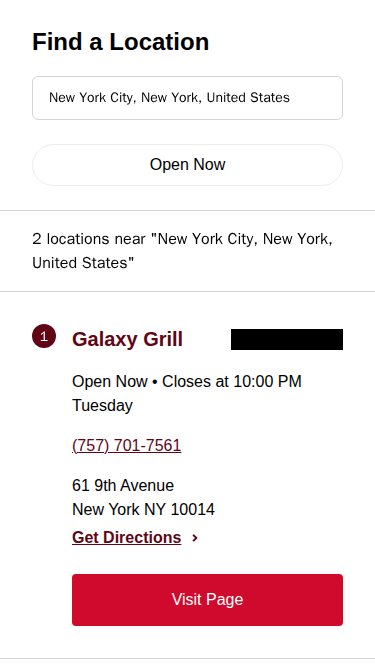
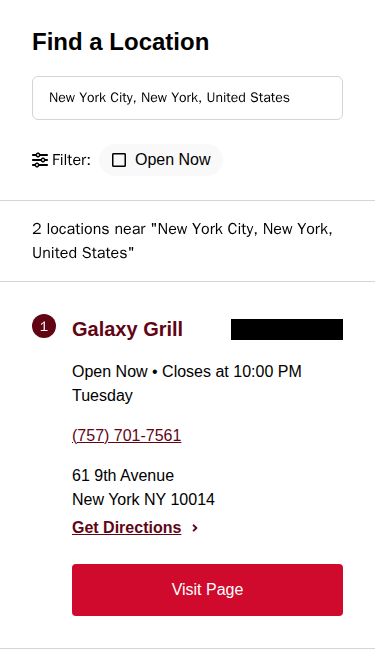
feat: improve open now styling (#712)
Adds the checkbox using FA Icons

Sets background to Gray 100 when not selected

"Filter:" text is bolded in platform-dev mode, but not the testing
screenshots:

<img width="300" height="158" alt="image"
src="https://github.com/user-attachments/assets/8669e367-d482-4788-add8-b2273ade052c"
/>

---------

diff --git a/packages/visual-editor/src/components/Locator.tsx b/packages/visual-editor/src/components/Locator.tsx
@@ -49,8 +49,9 @@ import {
   HoursType,
 } from "@yext/pages-components";
 import { MapPinIcon } from "./MapPinIcon.js";
-import { FaAngleRight } from "react-icons/fa";
+import { FaAngleRight, FaCheckSquare, FaRegSquare } from "react-icons/fa";
 import { formatPhoneNumber } from "./atoms/phone.js";
+import { FaSliders } from "react-icons/fa6";
 
 const DEFAULT_FIELD = "builtin.location";
 const DEFAULT_ENTITY_TYPE = "location";
@@ -376,9 +377,9 @@ const LocatorInternal = ({
   }, [searchFilters]);
 
   return (
-    <div className="components flex ve-h-screen ve-w-screen mx-auto">
+    <div className="components flex h-screen w-screen mx-auto">
       {/* Left Section: FilterSearch + Results. Full width for small screens */}
-      <div className="w-full ve-h-screen md:w-2/5 lg:w-1/3 flex flex-col">
+      <div className="h-screen md:w-2/5 lg:w-1/3 flex flex-col">
         <div className="px-8 py-6 gap-4 flex flex-col">
           <Heading level={3}>{t("findALocation", "Find a Location")}</Heading>
           <FilterSearch
@@ -400,13 +401,28 @@ const LocatorInternal = ({
             }}
           />
           {openNowButton && (
-            <Toggle
-              pressed={isSelected}
-              onPressedChange={(pressed) => handleOpenNowClick(pressed)}
-              className="py-2 px-2"
-            >
-              {t("openNow", "Open Now")}
-            </Toggle>
+            <div className={"flex flex-row gap-2 items-center"}>
+              <div className={"flex items-center gap-1"}>
+                <FaSliders />
+                <span className="font-bold">
+                  {t("locatorFilterLabel", "Filter:")}
+                </span>
+              </div>
+              <Toggle
+                pressed={isSelected}
+                onPressedChange={(pressed) => handleOpenNowClick(pressed)}
+                className="inline-flex py-1 px-3 w-auto"
+              >
+                <span className="inline-flex items-center gap-2">
+                  {isSelected ? (
+                    <FaCheckSquare className="inline-block" />
+                  ) : (
+                    <FaRegSquare className="inline-block" />
+                  )}
+                  {t("openNow", "Open Now")}
+                </span>
+              </Toggle>
+            </div>
           )}
         </div>
         <div className="px-8 py-4 text-body-fontSize border-y border-gray-300">

diff --git a/packages/visual-editor/src/components/atoms/toggle.tsx b/packages/visual-editor/src/components/atoms/toggle.tsx
@@ -14,10 +14,12 @@ function Toggle({
         textTransform: "var(--textTransform-button-textTransform)",
       }}
       className={themeManagerCn(
-        "items-center justify-center gap-2 rounded-full text-black " +
-          "data-[state=on]:bg-palette-secondary data-[state=on]:border-palette-secondary " +
-          "whitespace-nowrap border-gray-200 border border-solid hover:underline " +
-          "font-button-fontFamily text-button-fontSize font-button-fontWeight tracking-button-letterSpacing",
+        "inline-flex items-center justify-center gap-2 rounded-full text-black " +
+          "bg-gray-100 ",
+        "whitespace-nowrap text-black hover:underline " +
+          "font-button-fontFamily text-button-fontSize font-button-fontWeight tracking-button-letterSpacing ",
+        "data-[state=on]:bg-palette-secondary data-[state=on]:text-palette-secondary-dark " +
+          "self-start w-auto",
         className
       )}
       {...props}
